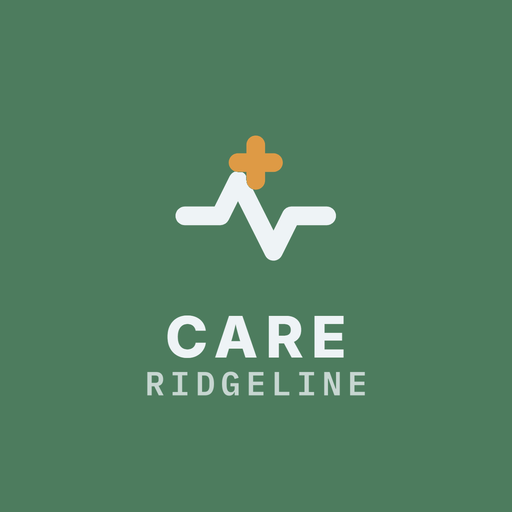
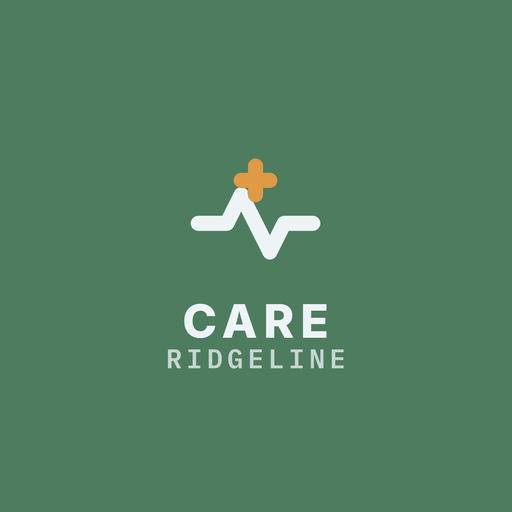
桌面圖示縮進手機安全區（不再被裁字）；sw 版號升

Changed region(s): [[0.2812, 0.5938, 0.7188, 0.7812], [0.3438, 0.25, 0.6562, 0.5312]]

diff --git a/sw.js b/sw.js
@@ -1,4 +1,4 @@
-const CACHE='health-app-v24';
+const CACHE='health-app-v25';
 const ASSETS=[
   './',
   './index.html',
